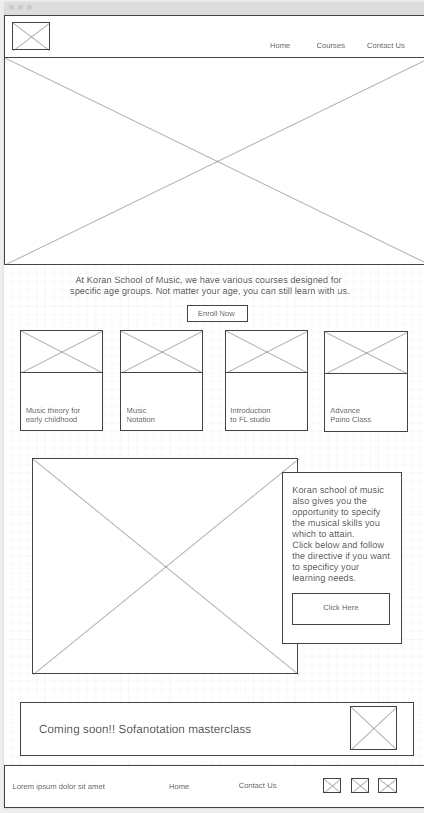
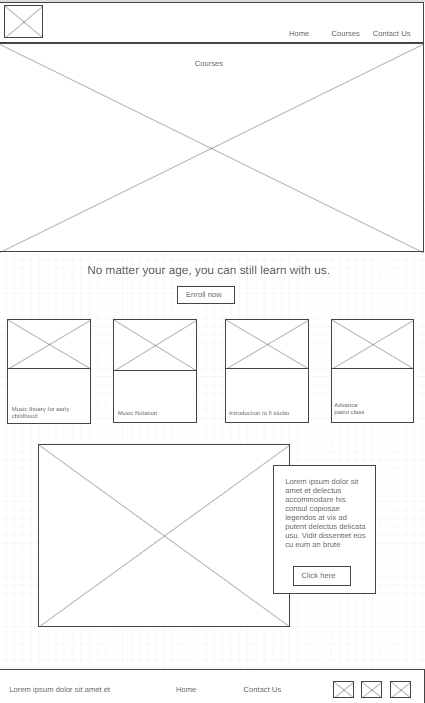
completed second page

diff --git a/ksm/courses.html b/ksm/courses.html
@@ -5,7 +5,7 @@
     <meta http-equiv="X-UA-Compatible" content="IE=edge">
     <meta name="viewport" content="width=device-width, initial-scale=1.0">
     <title>Koran School Of Music | Courses</title>
-    <link rel="stylesheet" href="#">
+    <link rel="stylesheet" href="styles/style.css">
 </head>
 <body>
     <div id="content">
@@ -30,8 +30,7 @@
         <main>
 
             <section id="intro-msg">
-                <h3>At Koran school of music we have various courses designed
-                    for all age groups. No matter your age, you can still learn
+                <h3> No matter your age, you can still learn
                     with us.
                 </h3>
                 <div class="Button-box">
@@ -40,33 +39,46 @@
             </section>
             <section id="courses">
                 <div class="coursecard1">
-                    <img id="courseimg1" src="images/childhood.jpg" alt="childplaying violin" >
-                    <h4>Music theory for early childhood</h4>
+                    <img id="courseimg1" src="images/childhood.jpg" alt="childplayingviolin">
+                    <div class="container">
+                      <h4><b>Koran Music School</b></h4> 
+                      <p>Music theory for Early Childhood</p> 
                 </div>
+                </div>                
                 <div class="coursecard2">
-                    <img id="courseimg2" src="images/notes.jpg" alt="music notes" >
-                    <h4>Music notation</h4>
+                    <img id="courseimg2" src="images/notes.jpg" alt="music notes">
+                    <div class="container">
+                      <h4><b>Koran Music School</b></h4> 
+                      <p>Music notation</p> 
+                </div>
                 </div>
                 <div class="coursecard3">
-                    <img id="courseimg3" src="images/studio.jpg" alt="studio" >
-                    <h4>Introduction to FL studio</h4>
+                    <img id="courseimg3" src="images/studio.jpg" alt="studio">
+                    <div class="container">
+                      <h4><b>Koran Music School</b></h4> 
+                      <p>Introduction to FL studio</p> 
+                </div>
                 </div>
                 <div class="coursecard4">
-                    <img id="courseimg4" src="images/piano.jpg" alt="playing the piano" >
-                    <h4>Advance Piano Class</h4>
+                    <img id="courseimg4" src="images/piano.jpg" alt="playing the piano">
+                    <div class="container">
+                      <h4><b>Koran Music School</b></h4> 
+                      <p>Advance Piano Class</p> 
                 </div>
-            
+                </div>           
             </section>
-            <img class="endingimg" src="images/musicpic3.jpg" alt="piano">
-            <section class="info">
-                <p>Koran school of music also gives you the opportunity
-                    to specify the musical skills you wish to attain. 
-                    Click below and follow the directive if you want to 
-                    specify your learning needs.
-                    <a class="infobox" href="courses.html">Click Here</a>
-                </p>
-
-            </section>
+            <div id="end">
+                <img class="endingimg" src="images/musicpic3.jpg" alt="piano">
+                <div id="messagebckground"></div>
+                <section class="msg">
+                    <p>Koran school of music also gives you the opportunity
+                        to specify the musical skills you wish to attain. 
+                        Click below and follow the directive if you want to 
+                        specify your learning needs.</p>
+                    
+                    <a class="learn" href="courses.html">Click Here</a>
+                </section>
+            </div>
         </main>
         <footer>
             <p>Koran Music &copy; 20XX - Jonathan Koranteng</p>

diff --git a/ksm/styles/style.css b/ksm/styles/style.css
@@ -96,7 +96,8 @@ footer .social img {
 
 #hero-msg h4 {
     color: #010811 ;
-    font-style: "Roboto";
+    font-family: "Roboto", "sacramento";
+    
 }
 
 #hero-msg {
@@ -113,7 +114,7 @@ footer .social img {
     text-align: center;
 }
 
-.book, .Join {
+.book, .Join, .learn {
     background-color: #023047;
     color: white;
     text-decoration: none;
@@ -131,22 +132,23 @@ main {
     text-align: center;
 }
 
-main h1 {
-    font-size: 4em;
+main h1, #intro-msg {
+    font-size: 3.5em;
     font-family: "sacramento", "Roboto";
     padding: 5px;
 }
 
 #welcome {
+    padding: 30px;
     display: grid;
     grid-template: 10% 90%/ 50% 50%;
 }
 
 #background {
-    height: 540px;
+    
     background-color: #CCA43B;
     grid-column: 1/3;
-    grid-row: 1/2;
+    grid-row: 1/3;
 }
 
 #welcome h3, #welcome p {
@@ -165,7 +167,7 @@ main h1 {
     padding: 30px;
 }
 
-#welcome img {
+#welcomeimg {
     width: 95%;
     grid-column: 2/3;
     grid-row: 1/3;
@@ -173,29 +175,76 @@ main h1 {
 }
 
 #end {
+    padding: 30px;
     display: grid;
-    grid-template: 80% 20% / 1fr 1fr;
+    grid-template: 15% 70% 15%/ 1fr 1fr 1fr 1fr 1fr;
 }
 
-.ending img {
-    width: 100%;
-    grid-column: 1/2;
+.endingimg {
+    
+    width: 90%;
+    grid-column: 1/5;
     grid-row: 1/3;
 }
 
 .msg {
-    grid-column: 2/3;
-    grid-row: 1/3;
+    padding: 30px;
+    grid-column: 4/6;
+    grid-row: 2/3;
+    text-align: center;
+    font-size: 1.5em;
+    font-family:"Helvetica","source sans pro","Lato";
     color: #FFFFFF;
 }
 
 #messagebckground {
-    height: 250px;
+    
     background-color: #396E94;
-    grid-column: 2/3;
-    grid-row: 1/3;
+    grid-column: 4/6;
+    grid-row: 2/3;
     
 }
 
 
+
+*#courseimg1, #courseimg2, #courseimg3, #courseimg4 {
+    width: 200px;
+}
+
+
+#courses {
+    padding: 50px;
+    display: grid;
+    grid-template: 100% / 1fr 1fr 1fr 1fr;
+    grid-gap: 40px;
+}
+.coursecard1{
+    grid-column: 1/2;
+}
+.coursecard2{
+    grid-column: 2/3;
+}
+.coursecard3{
+    grid-column: 3/4;
+}
+.coursecard4 {
+    grid-column: 4/5;
+}
+
+
+.coursecard1, .coursecard2 , .coursecard3, .coursecard4 {
+    padding: 5px;
+    box-shadow: 0 4px 8px 0 rgba(0,0,0,0.2);
+    transition: 0.3s;
+    width: 100%;
+  }
+  
+.coursecard1:hover, .coursecard2:hover , .coursecard3:hover, .coursecard4:hover {
+    box-shadow: 0 8px 16px 0 rgba(0,0,0,0.2);
+  }
+  
+.container {
+    padding: 2px 16px;
+    text-align: left;
+  }
             

diff --git a/ksm/index.html b/ksm/index.html
@@ -47,10 +47,10 @@
                     curriculum designed to cultivate your skills and a wide tapestry of musical 
                     genres. Feel free to use the resources available here to learn more about us. 
                 </p>
-                <img id="welcome img" src="images/musicpic2.jpg" alt="Piano and music notes">
+                <img id="welcomeimg" src="images/musicpic2.jpg" alt="Piano and music notes">
             </section>
             <div id="end">
-                <img class="ending img" src="images/homeimage1.jpg" alt="piano">
+                <img class="endingimg" src="images/homeimage1.jpg" alt="piano">
                 <div id="messagebckground"></div>
                 <Section class="msg">
                     <p>Beyond technical mastery, we believe in fostering a 
